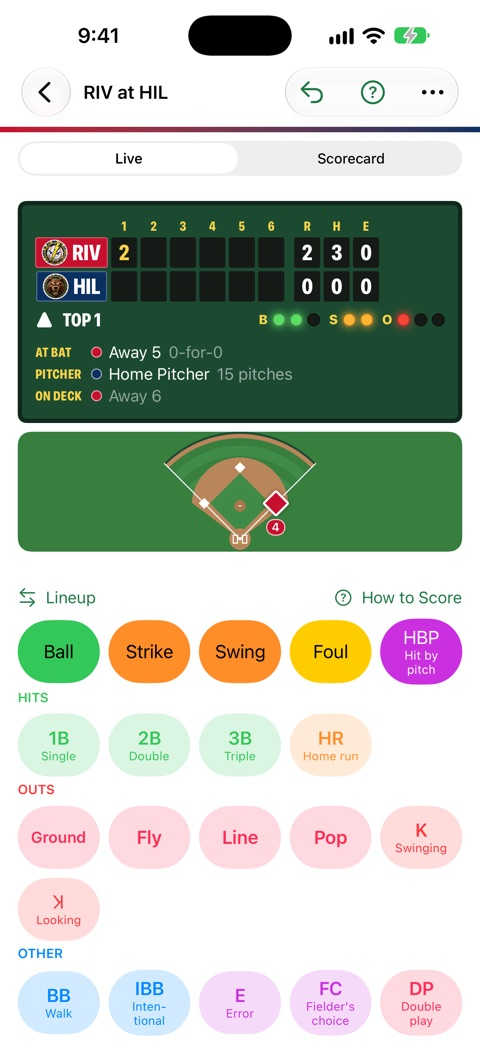
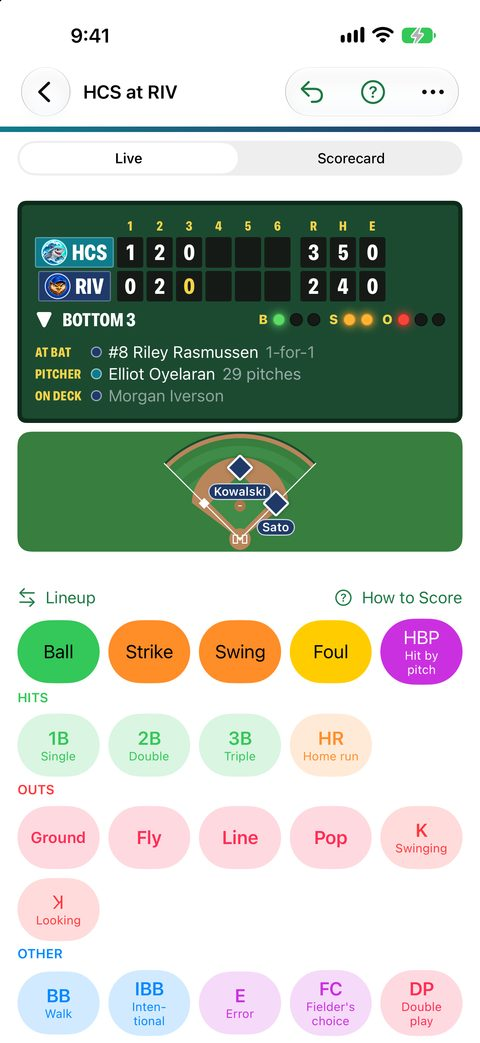
Move Game Closet and Scorekeeper into a Coming soon section, update both pages from their App Store listings with Scorekeeper's Free and Pro, and add more screenshots

diff --git a/scorekeeper/index.html b/scorekeeper/index.html
@@ -12,7 +12,7 @@
 <meta name="viewport" content="width=device-width, initial-scale=1">
 <meta name="color-scheme" content="light dark">
 <title>Scorekeeper: Score Any Game</title>
-<meta name="description" content="A scorekeeping app in the works for iPhone Duo, iPhone, iPad and Mac: baseball, cricket, basketball, football, soccer and hockey, play by play.">
+<meta name="description" content="Score baseball pitch by pitch, cricket ball by ball, and basketball, football, soccer and hockey play by play. Free to score, with a one-time Pro upgrade. Coming soon for iPhone, iPhone Duo, iPad, Mac and Apple Watch.">
 <link rel="icon" href="../assets/favicon.png">
 <link rel="stylesheet" href="../assets/site.css">
 </head>
@@ -26,36 +26,95 @@
     <img src="../assets/scorekeeper/icon.jpg" alt="The Scorekeeper app icon, a baseball flying over a lit ballpark" width="256" height="256">
     <div class="text">
       <h1>Scorekeeper</h1>
-      <p class="lede">Keep score of any game, play by play.</p>
-      <span class="soon">Coming soon, maybe</span>
+      <p class="lede">Pitch by pitch, play by play.</p>
+      <span class="soon">Coming soon to the App Store</span>
     </div>
   </div>
-  <p>Score baseball pitch by pitch, cricket ball by ball, and basketball, football, soccer and hockey play by play, with a box score for each player. Or follow a live MLB game and watch the scorecard fill itself in.</p>
-  <ul class="shots mixed" tabindex="0" aria-label="Screenshots">
-    <li><img src="../assets/scorekeeper/iphone-baseball.jpg" alt="A baseball game on iPhone: the line score, the count, runners on base and the pitch and play buttons" width="480" height="1043" loading="lazy"></li>
-    <li><img src="../assets/scorekeeper/iphone-scorebook.jpg" alt="The scorebook page for the same game, with a diamond for each at-bat marked 1B9, F8, 2B7 and 1B8" width="480" height="1043" loading="lazy"></li>
-    <li><img src="../assets/scorekeeper/iphone-football.jpg" alt="A football game on iPhone: the field with the line of scrimmage, the line to gain and the drive so far, and the yards-gained buttons" width="480" height="1043" loading="lazy"></li>
-    <li><img src="../assets/scorekeeper/duo-cover-home.jpg" alt="The Score tab on the iPhone Duo cover display: games in progress on small scoreboards, and a card for each sport" width="480" height="698" loading="lazy"></li>
-    <li><img src="../assets/scorekeeper/duo-cover.jpg" alt="A basketball game on the iPhone Duo cover display: the scoreboard, the court with each shot marked, and the scoring buttons" width="480" height="698" loading="lazy"></li>
-    <li><img src="../assets/scorekeeper/duo-cover-hockey.jpg" alt="A hockey game on the iPhone Duo cover display: the scoreboard, the rink with each shot marked, and the goal, shot and miss buttons" width="480" height="698" loading="lazy"></li>
+  <p>Keep score the way a paper scorebook does, without the eraser. Scorekeeper scores baseball and softball pitch by pitch, cricket ball by ball, and basketball, football, soccer and hockey play by play, with a box score for every player. Scoring is free, with no limit on games.</p>
+  <ul class="shots" tabindex="0" aria-label="Screenshots on iPhone">
+    <li><img src="../assets/scorekeeper/iphone-baseball.jpg" alt="A baseball game: the line score, the batter, pitcher and on-deck hitter, runners on the field, and the pitch and play buttons" width="480" height="1043" loading="lazy"></li>
+    <li><img src="../assets/scorekeeper/iphone-scorecard.jpg" alt="The scorecard for the same game, with each at-bat drawn in its diamond, such as a 6-4-3 double play" width="480" height="1043" loading="lazy"></li>
+    <li><img src="../assets/scorekeeper/iphone-cricket.jpg" alt="A cricket innings: the score, overs, run rate and projected score, the over so far, and the runs, extras and wicket buttons" width="480" height="1043" loading="lazy"></li>
+    <li><img src="../assets/scorekeeper/iphone-basketball.jpg" alt="A basketball game: the scoreboard, each shot marked on the court, and both teams' scoring, rebound, steal and foul buttons" width="480" height="1043" loading="lazy"></li>
+    <li><img src="../assets/scorekeeper/iphone-box-score.jpg" alt="A baseball box score with each batter's line, the pitcher's line, and when the pitcher can pitch again" width="480" height="1043" loading="lazy"></li>
+    <li><img src="../assets/scorekeeper/iphone-football.jpg" alt="A football game: the field with the line of scrimmage, the line to gain and the drive so far, and the yards-gained buttons" width="480" height="1043" loading="lazy"></li>
+    <li><img src="../assets/scorekeeper/iphone-teams.jpg" alt="A team's page: its mascot logo and record, season stats, and its baseball roster" width="480" height="1043" loading="lazy"></li>
   </ul>
 
-  <h2>Open it up</h2>
-  <p>On iPhone Duo, open the phone and the game spreads across both halves: the box score and plays on one, the field and the scoring buttons on the other.</p>
-  <ul class="shots mixed" tabindex="0" aria-label="Screenshots on iPhone Duo, open">
-    <li><img src="../assets/scorekeeper/duo-inner-home.jpg" alt="The Score tab with iPhone Duo open: games in progress on one half, and the sport cards on the other" width="1000" height="688" loading="lazy"></li>
-    <li><img src="../assets/scorekeeper/duo-inner.jpg" alt="A basketball game with iPhone Duo open: team stats on one half, and the scoreboard, court and scoring buttons on the other" width="1000" height="703" loading="lazy"></li>
-    <li><img src="../assets/scorekeeper/duo-inner-hockey.jpg" alt="A hockey game with iPhone Duo open: the line score and team stats on one half, and the scoreboard, rink and scoring buttons on the other" width="1000" height="703" loading="lazy"></li>
-  </ul>
-
-  <h2>What it does</h2>
+  <h2>Score any game</h2>
   <div class="features">
-    <div><h3>Six sports, one scorebook</h3><p>Baseball and softball, cricket, basketball, football, soccer and hockey, each with its own field, buttons and rules written out.</p></div>
-    <div><h3>Every play counted</h3><p>Mark where each shot was taken or each hit went. Box scores, shot charts and the play-by-play build themselves, and a past play can be fixed.</p></div>
-    <div><h3>Follow live games</h3><p>Follow an MLB game and watch its scorecard fill in, or follow NBA, WNBA, NFL, NHL, MLS and college games as they happen.</p></div>
-    <div><h3>Teams and history</h3><p>Every game you score is kept, with each team's record. Share a game's scorebook as a PDF, or send the game itself to a friend.</p></div>
+    <div><h3>Baseball and softball</h3><p>Tap each pitch, then the play and the fielders (6-4-3). The count, outs and runners follow, and the scorecard fills in the way you'd draw it.</p></div>
+    <div><h3>Cricket</h3><p>Every ball, extras, wickets, bowling changes and the follow-on, checked against the Laws.</p></div>
+    <div><h3>Basketball, football, soccer and hockey</h3><p>Scores, fouls, shots and assists for each player, drawn on the court, field or rink.</p></div>
+    <div><h3>Fix anything</h3><p>Undo the last thing, or tap any earlier play to change it. The box score and play-by-play follow along.</p></div>
   </div>
-  <p style="margin-top:2rem">Scorekeeper isn't out yet, and plans can change. Back to <a href="../index.html">DeeDogDevelopment</a>.</p>
+
+  <h2>Pitch counts for youth baseball</h2>
+  <p>Pick your league's rules (Little League, Pitch Smart, or your own daily limit) and the age group. Scorekeeper warns before a pitcher reaches the limit and shows who needs rest, counting the team's earlier games. On Apple Watch, count pitches from the dugout: Ball, Strike, Foul and In Play, with how many are left before the limit.</p>
+  <ul class="shots mixed" tabindex="0" aria-label="Screenshots on Apple Watch">
+    <li class="watch"><img src="../assets/scorekeeper/watch-pitch-counter.jpg" alt="The Apple Watch pitch counter: Parker Kaye at 15 pitches, 70 left, no rest needed, with Ball, Strike, Foul and In Play buttons" width="422" height="514" loading="lazy"></li>
+    <li class="watch"><img src="../assets/scorekeeper/watch-pitchers.jpg" alt="The pitchers list on Apple Watch: each pitcher's pitches, strikes, batters faced and rest needed" width="422" height="514" loading="lazy"></li>
+  </ul>
+
+  <h2>Made for the fold</h2>
+  <p>Half open on a bleacher, the scoreboard and field sit above the fold and the scoring buttons below it, under your thumbs. Open flat, the scorecard is on one side and the field on the other. Closed, it's a big scoreboard on the cover screen.</p>
+  <ul class="shots mixed" tabindex="0" aria-label="Screenshots on iPhone Duo">
+    <li><img src="../assets/scorekeeper/duo-open-cricket.jpg" alt="Cricket with iPhone Duo open: the batting and bowling card on one half, and the score, the ground and the scoring buttons on the other" width="1000" height="703" loading="lazy"></li>
+    <li><img src="../assets/scorekeeper/duo-book-basketball.jpg" alt="Basketball with iPhone Duo open: the box score on one half, and the scoreboard, shot chart and scoring buttons on the other" width="1000" height="703" loading="lazy"></li>
+    <li><img src="../assets/scorekeeper/duo-inner-hockey.jpg" alt="Hockey with iPhone Duo open: the line score and team stats on one half, and the scoreboard, rink and scoring buttons on the other" width="1000" height="703" loading="lazy"></li>
+    <li><img src="../assets/scorekeeper/duo-cover.jpg" alt="Basketball on the iPhone Duo cover screen: the scoreboard, the court with each shot marked, and the scoring buttons" width="480" height="698" loading="lazy"></li>
+    <li><img src="../assets/scorekeeper/duo-cover-hockey.jpg" alt="Hockey on the iPhone Duo cover screen: the scoreboard, the rink with each shot marked, and the goal, shot and miss buttons" width="480" height="698" loading="lazy"></li>
+  </ul>
+
+  <h2>On iPad and Mac</h2>
+  <p>It works just as well on any iPhone, iPad and Mac. On a big screen the scorecard sits right beside the field.</p>
+  <ul class="shots mixed" tabindex="0" aria-label="Screenshots on iPad">
+    <li><img src="../assets/scorekeeper/ipad-baseball.jpg" alt="Baseball on iPad: the scorecard beside the line score, the field and the pitch buttons" width="1000" height="750" loading="lazy"></li>
+    <li><img src="../assets/scorekeeper/ipad-cricket.jpg" alt="Cricket on iPad: the batting card and a runs-per-over chart beside the score and the scoring buttons" width="1000" height="750" loading="lazy"></li>
+    <li><img src="../assets/scorekeeper/ipad-basketball.jpg" alt="Basketball on iPad: both teams' box scores beside the scoreboard, shot chart and scoring buttons" width="1000" height="750" loading="lazy"></li>
+    <li><img src="../assets/scorekeeper/ipad-home.jpg" alt="The Score tab on iPad: games in progress, and a card for each sport to start a game" width="1000" height="750" loading="lazy"></li>
+  </ul>
+
+  <h2>Your teams</h2>
+  <p>Every team keeps its colors, logo, roster and record. Pick from 32 mascot logos, and each sport has its own scoreboard theme. Every game you score is kept in History.</p>
+
+  <h2>Free and Pro</h2>
+  <div class="plans">
+    <div>
+      <h3>Free</h3>
+      <p class="price">No limit on games</p>
+      <ul>
+        <li>Scoring all six sports, with the box score and play-by-play</li>
+        <li>Fixing any past play</li>
+        <li>Every pitch-count warning</li>
+        <li>Teams, rosters and History</li>
+        <li>Following a game someone shares with you</li>
+        <li>Joining a game nearby to score together</li>
+        <li>The Apple Watch pitch counter on its own</li>
+      </ul>
+    </div>
+    <div>
+      <h3>Scorekeeper Pro</h3>
+      <p class="price">One purchase, not a subscription</p>
+      <ul>
+        <li>iCloud sync between your iPhone, iPad and Mac</li>
+        <li>Share Live: family follows the game as you score it, for free</li>
+        <li>Score Together: hand scoring back and forth with a phone nearby, even with no signal</li>
+        <li>The Apple Watch pitch counter, linked to the game you're scoring</li>
+        <li>Season stats across your games, and a printable scorecard PDF</li>
+        <li>Lineups read from a photo of the lineup card, logos from your own pictures, and every theme</li>
+      </ul>
+    </div>
+  </div>
+  <p>Buy Pro once and it's unlocked on your iPhone, iPad and Mac, and for your Family Sharing group. Once you have Pro, an optional tip jar appears in Settings.</p>
+  <ul class="shots mixed" tabindex="0" aria-label="The Scorekeeper Pro screen">
+    <li><img src="../assets/scorekeeper/iphone-pro.jpg" alt="The Scorekeeper Pro screen, listing iCloud Sync, Share Live, Score Together, the Apple Watch pitch counter, season stats, the scorecard PDF and lineups from photos" width="480" height="1043" loading="lazy"></li>
+  </ul>
+
+  <h2>No accounts, no ads</h2>
+  <p>No sign-up, no ads and no tracking. Your games stay on your devices and in your own iCloud. Read the <a href="privacy.html">Privacy Policy</a>.</p>
+  <p>Available in English, Spanish, Japanese and Korean.</p>
+  <p style="margin-top:2rem">Scorekeeper isn't out yet. Need help? See <a href="support.html">Scorekeeper Support</a>.</p>
 </div></main>
 <footer><div class="wrap">
   <ul><li><a href="../game-closet/index.html">Game Closet</a></li><li><a href="../tallyup-golf/index.html">TallyUp Golf</a></li><li><a href="../scorekeeper/support.html">Support</a></li><li><a href="../scorekeeper/privacy.html">Privacy Policy</a></li><li><a href="mailto:natured-lobular8t@icloud.com">Contact</a></li></ul>

diff --git a/game-closet/index.html b/game-closet/index.html
@@ -27,24 +27,45 @@
     <div class="text">
       <h1>Game Closet</h1>
       <p class="lede">The hall closet of old games, opened on your phone.</p>
-      <span class="soon">Coming to the App Store</span>
+      <span class="soon">Coming soon to the App Store</span>
     </div>
   </div>
-  <p>Forty-one board, dice and card classics. Each one has its own board, its rules written out, and a CPU opponent who plays a fair game.</p>
-  <ul class="shots" tabindex="0" aria-label="Screenshots">
+  <p>Forty-one board, dice and card classics. Each one has its own board, its rules written out, and a CPU opponent who plays a fair game. Game Closet is free, with no ads and no account to create.</p>
+  <ul class="shots" tabindex="0" aria-label="Screenshots on iPhone">
     <li><img src="../assets/shots/01_iphone69_closet.jpg" alt="The closet, showing every game as a box on a shelf" width="560" height="1217" loading="lazy"></li>
+    <li><img src="../assets/shots/02_iphone69_hex.jpg" alt="A game of Hex in progress on its diamond board" width="560" height="1217" loading="lazy"></li>
     <li><img src="../assets/shots/03_iphone69_cribbage.jpg" alt="Cribbage with the pegboard above the hand" width="560" height="1217" loading="lazy"></li>
     <li><img src="../assets/shots/04_iphone69_yacht.jpg" alt="Yacht Dice with the scorepad" width="560" height="1217" loading="lazy"></li>
+    <li><img src="../assets/shots/05_iphone69_chinese-checkers.jpg" alt="Chinese Checkers on its six-pointed star board" width="560" height="1217" loading="lazy"></li>
     <li><img src="../assets/shots/06_iphone69_hearts.jpg" alt="Hearts during a hand" width="560" height="1217" loading="lazy"></li>
   </ul>
 
   <h2>See it fold</h2>
+  <p>On a folding phone such as iPhone Duo, opening it puts the board on one half and your scorepad, hand and buttons on the other, with nothing on the fold. Close it and the same game carries on, stacked on the cover screen. Fold to Pause makes the CPU wait while the phone is closed.</p>
   <figure class="video">
     <video controls playsinline preload="none" poster="../assets/video/game-closet-iphone-duo.jpg" width="1920" height="1080" aria-describedby="video-caption">
       <source src="../assets/video/game-closet-iphone-duo.mp4" type="video/mp4">
     </video>
     <figcaption id="video-caption">Game Closet on iPhone Duo: playing on the cover display, opening the phone to put the board on one half and the controls on the other, closing it again, and Solitaire across the fold. No sound. Also on <a href="https://youtu.be/xJu8On2D_xw">YouTube</a>.</figcaption>
   </figure>
+  <ul class="shots mixed" tabindex="0" aria-label="Screenshots on iPhone Duo">
+    <li><img src="../assets/shots/duo-inner-hex.jpg" alt="Hex with iPhone Duo open: the board on one half, and the turn, players and moves on the other" width="640" height="910" loading="lazy"></li>
+    <li><img src="../assets/shots/duo-inner-chinese-checkers.jpg" alt="Chinese Checkers with iPhone Duo open: the star board on one half, and the turn and play-by-play on the other" width="640" height="910" loading="lazy"></li>
+    <li><img src="../assets/shots/duo-inner-backgammon.jpg" alt="Backgammon with iPhone Duo open: the board on one half, and the dice, players and moves on the other" width="640" height="910" loading="lazy"></li>
+    <li><img src="../assets/shots/duo-outer-closet.jpg" alt="The closet on the iPhone Duo cover screen, with the game boxes on a shelf" width="480" height="698" loading="lazy"></li>
+    <li><img src="../assets/shots/duo-outer-cribbage.jpg" alt="Cribbage on the iPhone Duo cover screen, with the pegboard above the hand" width="480" height="698" loading="lazy"></li>
+    <li><img src="../assets/shots/duo-outer-farkle.jpg" alt="Farkle on the iPhone Duo cover screen, with the dice on the felt" width="480" height="698" loading="lazy"></li>
+  </ul>
+
+  <h2>On iPad and Mac</h2>
+  <p>On iPad and Mac the window splits the same way when it is wide enough: the board on one side, everything else on the other. No folding phone? The fold preview in Settings shows every layout on any device.</p>
+  <ul class="shots mixed" tabindex="0" aria-label="Screenshots on iPad and Mac">
+    <li><img src="../assets/shots/mac-closet.jpg" alt="The closet on Mac, with Peg Triangle's box opened beside the shelf" width="1000" height="625" loading="lazy"></li>
+    <li><img src="../assets/shots/mac-nine-mens-morris.jpg" alt="Nine Men's Morris on Mac, with the board beside the turn and moves" width="1000" height="625" loading="lazy"></li>
+    <li><img src="../assets/shots/mac-reversi.jpg" alt="Reversi on Mac, with the board beside the score and moves" width="1000" height="625" loading="lazy"></li>
+    <li><img src="../assets/shots/ipad-gin-rummy.jpg" alt="Gin Rummy on iPad, with the table and hands beside the score" width="1000" height="750" loading="lazy"></li>
+    <li><img src="../assets/shots/ipad-backgammon.jpg" alt="Backgammon on iPad, with the board beside the dice and moves" width="1000" height="750" loading="lazy"></li>
+  </ul>
 
   <h2>What's in the closet</h2>
   <h3>Board and strategy</h3>
@@ -106,11 +127,14 @@
 
   <h2>Play it your way</h2>
   <div class="features">
-    <div><h3>CPU or friends</h3><p>Play the CPU, with a choice of level in several games, or pass the phone around the table in many of them.</p></div>
+    <div><h3>CPU or friends</h3><p>Play the CPU, with a choice of level in several games, or pass the phone around the table in many of them. In Capture the Flag, a cover hides each side's pieces between turns, so pass and play stays fair.</p></div>
     <div><h3>Head to head</h3><p>Play thirteen of the board games against a friend on two iPhones, iPads or Macs in the same room. Turn it on in Settings, host a game, and your friend joins with the code on your screen.</p></div>
-    <div><h3>Made for a folding phone</h3><p>Open a folding phone such as iPhone Duo and the board sits on one half, with your hand and buttons on the other. On iPad and Mac the window splits the same way when it is wide enough.</p></div>
     <div><h3>Pick up where you left off</h3><p>Games save as you play. Every game has its rules written out, and the play-by-play explains how each score or move came about.</p></div>
-    <div><h3>Private by design</h3><p>No account to create, no ads and no tracking. Stats can sync through your own iCloud, Game Center is optional, and head to head goes straight between the two devices. Read the <a href="privacy.html">Privacy Policy</a>.</p></div>
+    <div><h3>A coach, if you want one</h3><p>Coach tips point out a clearly better move after you make one, and some games have hints. Turn them off in Settings, or game by game.</p></div>
+    <div><h3>Make it yours</h3><p>Choose a color theme, a table style and a dice style. The dice bounce across the felt when you throw them.</p></div>
+    <div><h3>Your record</h3><p>Each game keeps your record: wins, losses, streaks, best scores and play time. Game Center leaderboards and achievements are optional.</p></div>
+    <div><h3>Private by design</h3><p>No account to create, no ads and no tracking. Stats, favorites and shelf order can sync through your own iCloud, and head to head goes straight between the two devices. Read the <a href="privacy.html">Privacy Policy</a>.</p></div>
+    <div><h3>Free</h3><p>Game Closet is free, with every game included. If you enjoy it, an optional tip jar in Settings says thanks; tips don't unlock anything.</p></div>
   </div>
   <p style="margin-top:2rem">Need help? See <a href="support.html">Game Closet Support</a>.</p>
 </div></main>

diff --git a/index.html b/index.html
@@ -12,7 +12,7 @@
 <meta name="viewport" content="width=device-width, initial-scale=1">
 <meta name="color-scheme" content="light dark">
 <title>DeeDogDevelopment</title>
-<meta name="description" content="Apps by DeeDogDevelopment, including Game Closet, a collection of classic board, dice and card games, and TallyUp Golf, a golf scorecard with side games.">
+<meta name="description" content="Apps by DeeDogDevelopment: TallyUp Golf, a golf scorecard with side games, and coming soon, Game Closet, forty-one classic board, dice and card games, and Scorekeeper, a scorebook for six sports.">
 <link rel="icon" href="assets/favicon.png">
 <link rel="stylesheet" href="assets/site.css">
 </head>
@@ -41,24 +41,45 @@
       <li><img src="assets/tallyup-golf/iphone-results.jpg" alt="Side game results: skins, the Nassau and a press, and three payments to settle up" width="480" height="1043"></li>
     </ul>
   </section>
-  <a class="app-card" href="game-closet/index.html">
-    <img src="assets/game-closet-icon.png" alt="" width="256" height="256">
-    <div class="text"><h2>Game Closet</h2><p>Forty-one board, dice and card classics for iPhone, iPad and Mac.</p><span class="soon">Coming soon</span></div>
-    <svg class="chev" aria-hidden="true" viewBox="0 0 24 24" width="24" height="24"><path d="M9 5l7 7-7 7"/></svg>
-  </a>
-
   <section aria-labelledby="coming-soon">
-    <h2 id="coming-soon">Coming soon, maybe?</h2>
+    <h2 id="coming-soon">Coming soon</h2>
+    <p class="intro">Two more apps are finished and on their way to the App Store.</p>
+    <section class="featured upcoming" aria-labelledby="game-closet">
+      <div class="featured-text">
+        <img src="assets/game-closet-icon.png" alt="" width="256" height="256">
+        <span class="soon">Coming soon</span>
+        <h3 id="game-closet"><a href="game-closet/index.html">Game Closet</a></h3>
+        <p>The hall closet of old games, opened on your phone: forty-one board, dice and card classics, each with its rules written out and a CPU opponent who plays a fair game. Pass the phone around, or play a friend head to head on two devices in the same room.</p>
+        <p>Free, with no ads and no account. For iPhone, iPhone Duo, iPad and Mac.</p>
+        <p class="actions"><a href="game-closet/index.html">See what's in the closet</a></p>
+      </div>
+      <ul class="featured-shots" aria-label="Game Closet screenshots">
+        <li><img src="assets/shots/01_iphone69_closet.jpg" alt="The closet, showing every game as a box on a shelf" width="560" height="1217" loading="lazy"></li>
+        <li><img src="assets/shots/03_iphone69_cribbage.jpg" alt="Cribbage with the pegboard above the hand" width="560" height="1217" loading="lazy"></li>
+        <li><img src="assets/shots/02_iphone69_hex.jpg" alt="A game of Hex in progress on its diamond board" width="560" height="1217" loading="lazy"></li>
+      </ul>
+    </section>
+    <section class="featured upcoming" aria-labelledby="scorekeeper">
+      <div class="featured-text">
+        <img src="assets/scorekeeper/icon.jpg" alt="" width="256" height="256">
+        <span class="soon">Coming soon</span>
+        <h3 id="scorekeeper"><a href="scorekeeper/index.html">Scorekeeper</a></h3>
+        <p>A scorebook without the eraser: baseball and softball pitch by pitch, cricket ball by ball, and basketball, football, soccer and hockey play by play, with a box score for every player and pitch-count warnings for youth baseball.</p>
+        <p>Scoring is free, with no limit on games. Scorekeeper Pro, a one-time purchase, adds iCloud sync, Share Live, hosting a game to score together on two phones, and more. For iPhone, iPhone Duo, iPad, Mac and Apple Watch.</p>
+        <p class="actions"><a href="scorekeeper/index.html">See what it does</a></p>
+      </div>
+      <ul class="featured-shots" aria-label="Scorekeeper screenshots">
+        <li><img src="assets/scorekeeper/iphone-baseball.jpg" alt="A baseball game: the line score, runners on the field, and the pitch and play buttons" width="480" height="1043" loading="lazy"></li>
+        <li><img src="assets/scorekeeper/iphone-cricket.jpg" alt="A cricket innings: the score, the over so far, and the runs, extras and wicket buttons" width="480" height="1043" loading="lazy"></li>
+        <li><img src="assets/scorekeeper/iphone-basketball.jpg" alt="A basketball game: the scoreboard, a shot chart on the court, and each team's scoring buttons" width="480" height="1043" loading="lazy"></li>
+      </ul>
+    </section>
+  </section>
+
+  <section aria-labelledby="maybe">
+    <h2 id="maybe">Further off, maybe</h2>
     <p class="intro">A few more apps are in the works. Some of them may ship.</p>
     <ul class="soon-list">
-      <li class="soon-card">
-        <div class="soon-head">
-          <img src="assets/scorekeeper/icon.jpg" alt="The Scorekeeper app icon, a baseball flying over a lit ballpark" width="256" height="256">
-          <div><h3><a href="scorekeeper/index.html">Scorekeeper</a></h3><span class="maybe">Maybe</span></div>
-          <svg class="chev" aria-hidden="true" viewBox="0 0 24 24" width="24" height="24"><path d="M9 5l7 7-7 7"/></svg>
-        </div>
-        <p>Keep score of baseball, cricket, basketball, football, soccer and hockey, play by play, or follow a live MLB game as its scorecard fills itself in. Made for iPhone Duo, iPhone, iPad and Mac.</p>
-      </li>
       <li class="soon-card">
         <div class="soon-head">
           <img src="assets/forks/icon.jpg" alt="The Forks app icon, a cream branching fork on orange" width="256" height="256" loading="lazy">

diff --git a/assets/site.css b/assets/site.css
@@ -64,9 +64,13 @@ img { display: block; max-width: 100%; height: auto; }
             border-radius: 1.25rem; box-shadow: var(--shadow); }
 .featured-text { flex: 1 1 18rem; }
 .featured-text img { width: 6rem; border-radius: 22%; box-shadow: var(--shadow); }
-.featured h2 { margin: .5rem 0 .4rem; font-size: 1.75rem; }
-.featured h2 a { text-decoration: none; }
-.featured h2 a:hover { text-decoration: underline; }
+.featured :is(h2, h3) { margin: .5rem 0 .4rem; font-size: 1.75rem; }
+.featured :is(h2, h3) a { text-decoration: none; }
+.featured :is(h2, h3) a:hover { text-decoration: underline; }
+/* Finished apps on their way to the App Store: one card each, under a Coming soon heading. */
+.featured.upcoming { margin-top: 1.25rem; }
+.featured-text > p + p { margin-top: .6rem; }
+.featured-text .soon { margin-top: 1rem; }
 .featured-text > p { margin: 0; }
 .new { display: inline-block; margin-top: 1rem; padding: .2rem .7rem; border-radius: 99rem; background: var(--brand); color: var(--on-brand); font-weight: 600; font-size: .85rem; }
 .featured-shots { flex: 1 1 18rem; display: grid; grid-template-columns: repeat(3, 1fr); gap: .75rem; list-style: none; padding: 0; margin: 0; max-width: 24rem; }
@@ -107,6 +111,14 @@ img { display: block; max-width: 100%; height: auto; }
 /* A widget beside phone screens, at about the size it is on a Home Screen. */
 .shots.mixed .widget { align-self: center; }
 .shots.mixed .widget img { height: clamp(8rem, 26vw, 11rem); border-radius: 1.5rem; }
+/* Apple Watch screens, at about the size of the watch beside a phone. */
+.shots.mixed .watch img { height: clamp(11rem, 36vw, 15rem); border-radius: 2.25rem; }
+/* What's free and what Pro adds, side by side. */
+.plans { display: grid; grid-template-columns: repeat(auto-fit, minmax(min(100%, 18rem), 1fr)); gap: 1rem; }
+.plans > div { background: var(--card); border-radius: 1rem; padding: .25rem 1.25rem 1rem; box-shadow: var(--shadow); }
+.plans ul { margin: 0; padding-left: 1.2rem; }
+.plans li + li { margin-top: .35rem; }
+.plans .price { margin: 0 0 .6rem; color: var(--muted); font-weight: 600; }
 .video { margin: 1rem 0 0; }
 .video video { display: block; width: 100%; height: auto; border-radius: 1rem; box-shadow: var(--shadow); background: #1b1530; }
 .video figcaption { margin-top: .6rem; color: var(--muted); font-size: .95rem; }
